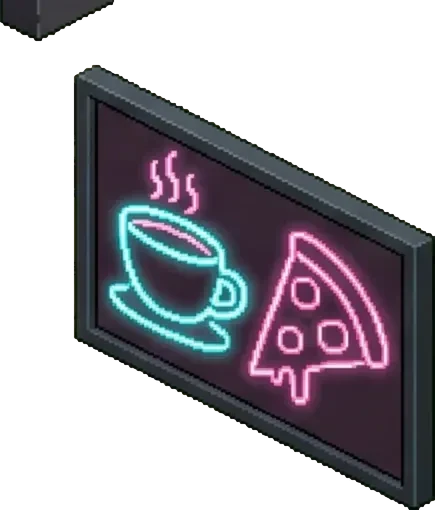
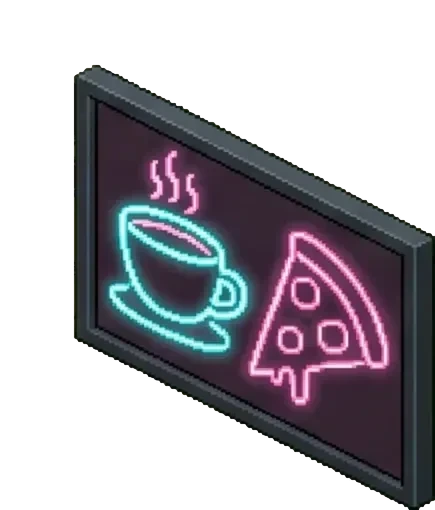
Restaurant wall pieces, rule 20 sweep in every stage and style (Cal's phone notes): the pizza-and-coffee neon flat on the back wall (not mirrored) and clear of the boards and pendants; Star Plaque off the window; the painting smaller and above the booth backs; the shelf superseded where the TODAY bo

Changed region(s): [[0.0, 0.0, 0.269, 0.0882]]

diff --git a/quest-board/app/src/26_world.js b/quest-board/app/src/26_world.js
@@ -347,18 +347,18 @@ LFROOM.restaurant=function(C){
     C.walls.push(lfFaceY(Wi+2.65+i*1.05,0,118,'<g transform="scale(.8)">'+c+'</g>'))});
   /* Cal (playtest): the double shelf was mirrored for the other wall, so it crossed the trim. Unmirrored it runs along the back
      wall, seated above the wainscot */
-  if(H("r_d2")&&!noir)rsS(C,"rsx_shelf",1.6,.02,1.8,.1,1,{H:58,dy:-74,nosh:1});
+  /* rule 20 (Cal): the shelf shared its wall with the TODAY board in the Hole in the Wall and with the painting later; superseded by them */if(H("r_d2")&&!noir&&!(st===0&&H("r_scr"))&&!(st>0&&H("r_d7")))rsS(C,"rsx_shelf",1.6,.02,1.8,.1,1,{H:58,dy:-74,nosh:1});
   /* clear of the painting at the left end of the back wall (QA) and of the wine wall to its right */
-  if(H("r_bigmenu")&&st>0&&C.room)C.walls.push(lfFaceY(st===1?4.15:Wi-9.4,0,130,rsBigMenu(SVC.restaurant.menu(C.room),LF.U*(st===1?3.75:4.6),66,noir)));/* Cal (playtest): "Make the tasting menu rectangular so it's not extending to the floor": 66 high, wholly above the wainscot rail */
+  if(H("r_bigmenu")&&st>0&&C.room)/* Cal: "the grand menu covers one of the lights": in Noir the shell has brass picture lights painted on this wall; the board hangs lower, under one */C.walls.push(lfFaceY(st===1?4.15:Wi-9.4,0,noir?104:130,rsBigMenu(SVC.restaurant.menu(C.room),LF.U*(st===1?3.75:4.6),66,noir)));/* Cal (playtest): "Make the tasting menu rectangular so it's not extending to the floor": 66 high, wholly above the wainscot rail */
   else if(H("r_scr")&&C.room)C.walls.push(lfFaceY(Math.max(.6,Wi-7.4),0,126,scrMenu(SVC.restaurant.menu(C.room),LF.U*2.6,58)));
   /* QA (v0.62): the three-panel sprite reaches left from its anchor, so it sits one board-width right of ORDERS */
   if(H("r_d3")&&!noir&&st>0)lfSpr(C,"w_menu",Wi+4.3,.05,.1,.05,{h:1,flip:1,H:42,dy:-125,nosh:1,noclamp:1});
   /* re-audit 2026-11-07 (0.26%): bigger, with a soft pink glow on the wall */
-  if(H("r_d4")&&!noir){var nx=st>0?Wi-1.75:.05;/* Cal: no unintended overlaps; in the Hole in the Wall it covered the TODAY board and the shelf, so the back corner, a little smaller */lfSpr(C,"w_neonrs",nx,.05,.1,.05,{h:1,flip:1,H:st>0?76:62,dy:st>0?-104:-90,nosh:1});/* QA 85fad55: right and up, clear of the wine wall */lfLight(C,nx+.4,.35,96,"#ff6ec7",1.3,.32)}
+  if(H("r_d4")&&!noir){var nx=st===2?Wi-3.3:st>0?Wi-1.75:3.85;/* st 2: clear of the pass pendants *//* Cal: no unintended overlaps; in the Hole in the Wall it covered the TODAY board and the shelf, so the back corner, a little smaller *//* Cal (v0.73 phone): "fits flush with the wall instead of hanging in air": the art is painted for the back wall, so not mirrored */lfSpr(C,"w_neonrs",nx,.05,.1,.05,{h:1,H:st>0?76:62,dy:st===2?-114:st>0?-104:-90,nosh:1});/* QA 85fad55: right and up, clear of the wine wall */lfLight(C,nx+.4,.35,96,"#ff6ec7",1.3,.32)}
   /* re-audit 2026-11-07: 26 px tall it changed 0.06% of the room and Noir hid it; bigger, lower, in every style */
   if(H("r_chef"))lfSpr(C,"rs_chef",st>0?Wi+5.3:Wi-1.3,.05,.1,.05,{h:1,flip:1,H:58,dy:-116,nosh:1});/* past the order board and the two menu boards; the first kitchen is too narrow, so there it hangs on the dining wall by the pass */
-  if(H("r_star")){lfSpr(C,"rs_star",.05,2.4,.1,.1,{h:1,H:84,dy:-80,nosh:1});lfLight(C,.35,2.45,96,"#ffd890",1.6,.55)}/* QA audit: bigger and lower, readable on a phone; re-audit 2026-11-07 (0.21%): bigger again, with a warm picture light so it reads on the dark wall */
-  if(H("r_d7")&&st>0)lfSpr(C,"rdx_art",.9,.05,2.3,.05,{h:1,flip:1,dy:-44,nosh:1,nob:1});
+  if(H("r_star")){var sty=1.0;/* rule 20 (Cal: "the star plaque is touching the window") */lfSpr(C,"rs_star",.05,sty,.1,.1,{h:1,H:84,dy:-80,nosh:1});lfLight(C,.35,sty+.05,96,"#ffd890",1.6,.55)}/* QA audit: bigger and lower, readable on a phone; re-audit 2026-11-07 (0.21%): bigger again, with a warm picture light so it reads on the dark wall */
+  /* Cal: "the painting is being covered by the booth": smaller and higher, above the booth backs */if(H("r_d7")&&st>0)lfSpr(C,"rdx_art",1.3,.05,1.6,.05,{h:1,flip:1,dy:-74,nosh:1,nob:1});
   /* appliances along the back of the wing, an island in front of them */
   var isl=[0,2.0,2.5][st],bx=Wi+.35,ix=Wi+.5,back=function(k,w,d,h){rsS(C,k,bx,.15,w,d,h,{flip:1});var at=bx+w/2;bx+=w+.08;return at},front=function(k,w,d,h){rsS(C,k,ix,isl,w,d,h,{flip:1});var at=ix+w/2;ix+=w+.14;return at};
   /* re-audit 2026-11-07 (0.37%): the Grand French Range's art is square, but it was drawn in the old range's footprint behind the pot rack; wider now (1.5, gaps .08: QA b296529, at 1.7 the full row pushed the pizza oven past the right wall) */
@@ -384,7 +384,7 @@ LFROOM.restaurant=function(C){
   lfPrep(C,"pass",Wi-1.0,kd-.5);
   /* re-audit 2026-11-07 (0.07%): at the back of the counter the partition hid it; now on the counter just behind the napkin box, both in view (QA 121dc00) */
   if(H("r_cf1")&&!(H("r_cf2")&&st>0))rsS(C,"rsx_drip",Wi-.78,1.72,.45,.4,1,{flip:1,dy:-34,nosh:1,dk:.5});
-  if(H("r_c1")||H("r_c2"))for(var tj=0;tj<tiles;tj++)[.45,1.35].forEach(function(o){var x=Wi-1.75,y=.2+tj*(td+.05)+o;lfSpr(C,"sbx_stool",x-.3,y-.3,.6,.6,{h:1,dk:.5,nob:1,nosh:1,sh:1});
+  if(H("r_c1")||H("r_c2"))for(var tj=0;tj<tiles;tj++)[.45,1.35].forEach(function(o){var x=Wi-1.75,y=.2+tj*(td+.05)+o;/* Cal: "facing left but unclear why they are there": they face the counter now */lfSpr(C,"sbx_stool",x-.3,y-.3,.6,.6,{h:1,dk:.5,nob:1,nosh:1,sh:1,flip:1});
     var n0=C.st.length;C.s("sit",x,y,1,"eat",[10,20],{tag:"diner",lift:1,sz:10,wx:x-1.1,wy:y,tb:[x+.9,y]});lfConvert(C,n0,"sit",{uact:"eat",lbl:"S",grp:"s"})});
   /* booths down the window wall, tables on the rest of the floor with room to walk between them */
   /* Cal, 2026-11-05: the red crescent booth sits in the back-left corner, open toward the room; the window booths move down
@@ -407,7 +407,7 @@ LFROOM.restaurant=function(C){
   /* QA audit: Brass Chandeliers drew only in the biggest room (in the smaller ones buying them just took the bulb away) */
   if(H("r_l2"))(st===2?[[5.7,6.2],[9.8,6.2],[9.8,10.2]]:st===1?[[4.6,5.4],[8.8,5.4]]:[[3.8,4.4]]).forEach(function(p){lfSpr(C,"rdx_chand",p[0]-.7,p[1]-.7,1.4,1.4,{h:1,dy:-118,nosh:1,dk:-8,nob:1,ctr:1});lfLight(C,p[0],p[1],70,"#ffb46a",3,.7)/* re-audit 2026-11-07: 0.2% by day, now 1.4 tiles and a little lower */});
   /* re-audit 2026-11-07 (0.45%): in the first room one sconce only swapped the bulb; two now, the second at the front of the left wall */
-  if(H("r_l1"))(st===0?[1.6,7.0]:st===1?[3.2,7.0]:[3.2,7.0,10.4]).forEach(function(y){lfSpr(C,"rdx_sconce",.05,y,.9,.05,{h:1,dy:-62,nosh:1,nob:1});lfLight(C,.7,y,70,"#ffc968",2,.35)});
+  if(H("r_l1"))(st===0?[6.1,7.3]:st===1?[3.2,7.0]:[3.2,7.0,10.4]).forEach(function(y){lfSpr(C,"rdx_sconce",.05,y,.9,.05,{h:1,dy:-62,nosh:1,nob:1});lfLight(C,.7,y,70,"#ffc968",2,.35)});
   else if(st===0&&!H("r_l2")){rsS(C,"rsx_bulb",3.8,4.4,.2,.2,1,{H:96,dy:-84,nosh:1,dk:-6,nob:1});lfLight(C,3.8,4.4,60,"#ffe2a8",2.2,.28)}
   /* a few things in the corners, with air around them */
   if(!H("r_d1"))rsS(C,"rsx_mop",.25,D-1.4,.9,.9,24);
@@ -416,7 +416,7 @@ LFROOM.restaurant=function(C){
   /* QA audit (WEAK): Sculptural Vases drew the olive tree; it has its own art now, black ceramic and dry branches */
   if(H("r_d8")&&st>1)lfSpr(C,LFSPR.rdx_vases?"rdx_vases":"rdx_olive",4.4,D-1.2,1,1,{h:40,ctr:1});
   if(H("r_d3")&&st>0)(st===2?(crescent?[4.05,7.4]:[.9,4.5,8.1]):[.9,4.5]).forEach(function(y){lfSpr(C,"rdx_div",3.78,y,.25,2.5,{h:50,ctr:1})});
-  if(H("r_d5")&&st>0)lfSpr(C,"rdx_wine",st===2?11.4:8.4,.1,1.6,.5,{h:60,flip:1,ctr:1,nosh:1});
+  if(H("r_d5")&&st>0)lfSpr(C,"rdx_wine",st===2?11.4:8.4,.1,1.6,.5,{h:60,ctr:1,nosh:1});
   if(H("r_d6")&&st>0)/* rule 20 sweep: at Wi-3.2 it stood inside the front table; now in the open floor before the counter end */lfSpr(C,"rdx_trolley",Wi-1.45,kd+.15,.8,.8,{h:30,ctr:1});
   /* the white drinks cooler has no place in Noir's fine dining once the backlit wine wall does its job (QA) */
   /* QA: against the back wall by the bar stools, not free in the walkway beside the door mat */
